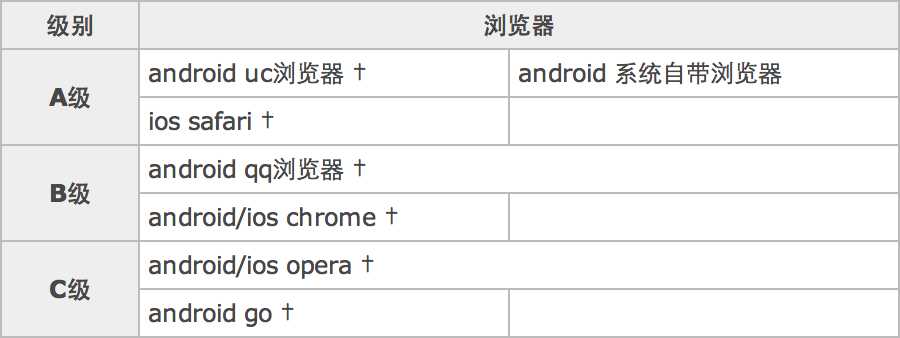
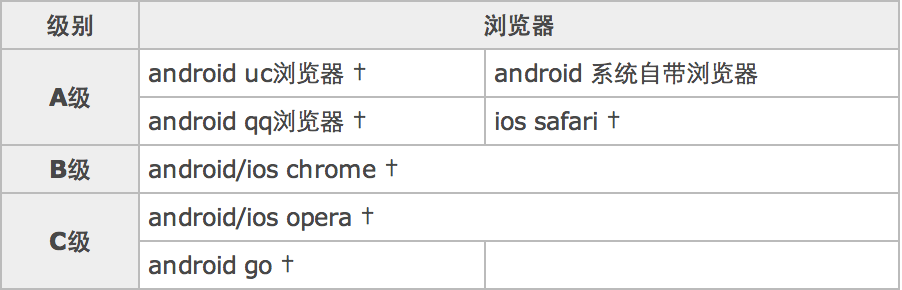
d2 demo

Changed region(s): [[0.0, 0.0, 1.0, 1.0], [0.0311, 0.2483, 0.1244, 0.3724], [0.0311, 0.7759, 0.1244, 0.9]]

diff --git a/demo/mgbs/index.html b/demo/mgbs/index.html
@@ -43,15 +43,22 @@
             .img-long {
                 height: 448px;
             }
+            .img-fat {
+                width: 400px;
+            }
 
+            
             em {
 
             }
         </style>
 
         <section>
-            <h1>MGBS 的那些事<br>
-            </h1>
+            <h1>MGBS</h1>
+            <div>
+                <h3>天猫前端</h3>
+                <h4>@鬼道 (luics) </h4>
+            </div>
         </section>
         <section>
             <h2>MGBS </h2>
@@ -145,8 +152,10 @@
 
                 <div id="browser">
                     <a href="img/cnnic-browser-201206.png"> <img src="img/cnnic-browser-201206.png" class="img"></a>
-                    <a href="img/cnnic-browser-use-201206.png"> <img src="img/cnnic-browser-use-201206.png" class="img"></a>
-                    <a href="img/mgbs-browser.png"> <img src="img/mgbs-browser.png" class="img"></a>
+                    <!--<a href="img/cnnic-browser-use-201206.png"> <img src="img/cnnic-browser-use-201206.png" class="img"></a>-->
+                    <a href="img/chitika-ios-browser-201209.png"> <img src="img/chitika-ios-browser-201209.png" class="img"></a>
+                    <a href="img/netapp-browser-201303.png"> <img src="img/netapp-browser-201303.png" class="img img-fat"></a>
+                    <a href="img/mgbs-browser.png"> <img src="img/mgbs-browser.png" class="img img-fat"></a>
                 </div>
                 <script type="text/javascript">
                     $(function() {
@@ -176,7 +185,7 @@
                     <li>android 屏宽 720/800 支持</li>
                     <li>所有移动设备的横屏支持</li>
                     <li>android 2.3.x与4.x的默认浏览器差异，以及可接受的退化处理范围</li>
-                    <li>android qq浏览器是否有必要放回A级</li>
+                    <li>android qq浏览器是否仍然在使用的WebView，是否有必要放在A级</li>
                     <li>android qq浏览器有独立和内置两种形式，是否有差异</li>
                     <li>windows phone 支持</li>
                     <li>建议可提给<a href="http://velocity.alibaba-inc.com/issues/216">MGBS关联任务</a></li>
@@ -188,6 +197,20 @@
             <div>
                 <iframe class="history" src="mgbs-history.html" frameborder="0" scrolling="no" width="850"
                         height="600" style=" border-radius: 10px;"></iframe>
+            </div>
+        </section>
+        <section>
+            <h2>Q & A</h2>
+            <div>
+                <br><br>
+                <h4><a href="mailto:xukai.xk@tmall.com">@鬼道</a> <a href="mailto:luics.xu@gmail.com">(luics)</a> </h4>
+                <a href="mailto:luics.xu@gmail.com">luics.xu@gmail.com</a><br>
+                <a href="http://luics.github.io">luics.github.io</a><br>
+                <!--<ul>-->
+                    <!--<li><a href="mailto:xukai.xk@tmall.com">xukai.xk@tmall.com</a></li>-->
+                    <!--<li><a href="mailto:luics.xu@gmail.com">luics.xu@gmail.com</a></li>-->
+                    <!--<li><a href="http://luics.github.io">luics.github.io</a></li>-->
+                <!--</ul>-->
             </div>
         </section>
     </div>

diff --git a/demo/d2-demo/index.html b/demo/d2-demo/index.html
@@ -1,0 +1,9 @@
+<!DOCTYPE html>
+<html>
+<head>
+    <title>D2 Demo, 即将揭晓</title>
+</head>
+<body>
+<h1>D2 Demo, 即将揭晓</h1>
+</body>
+</html>
